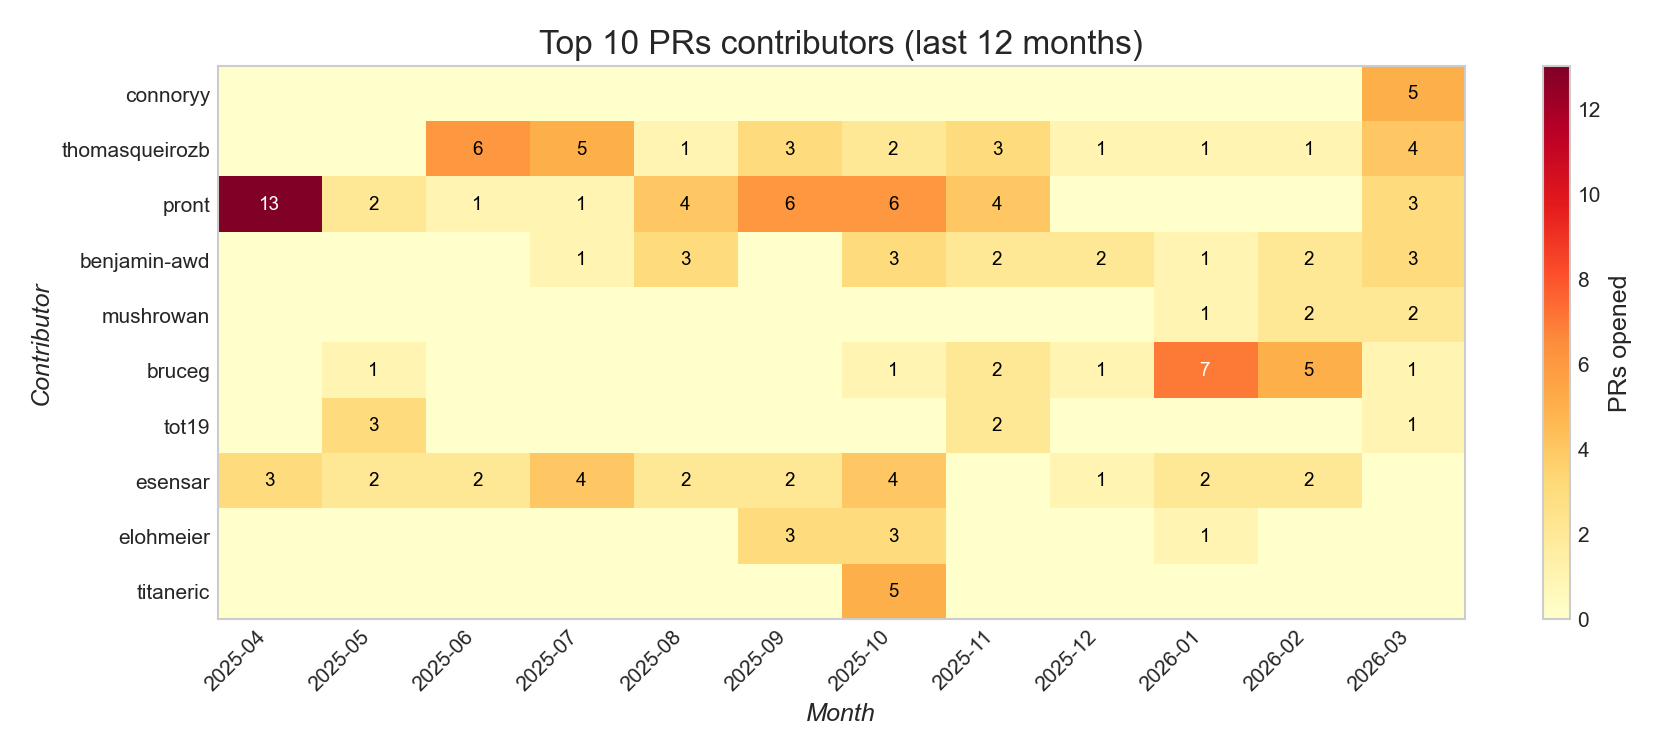
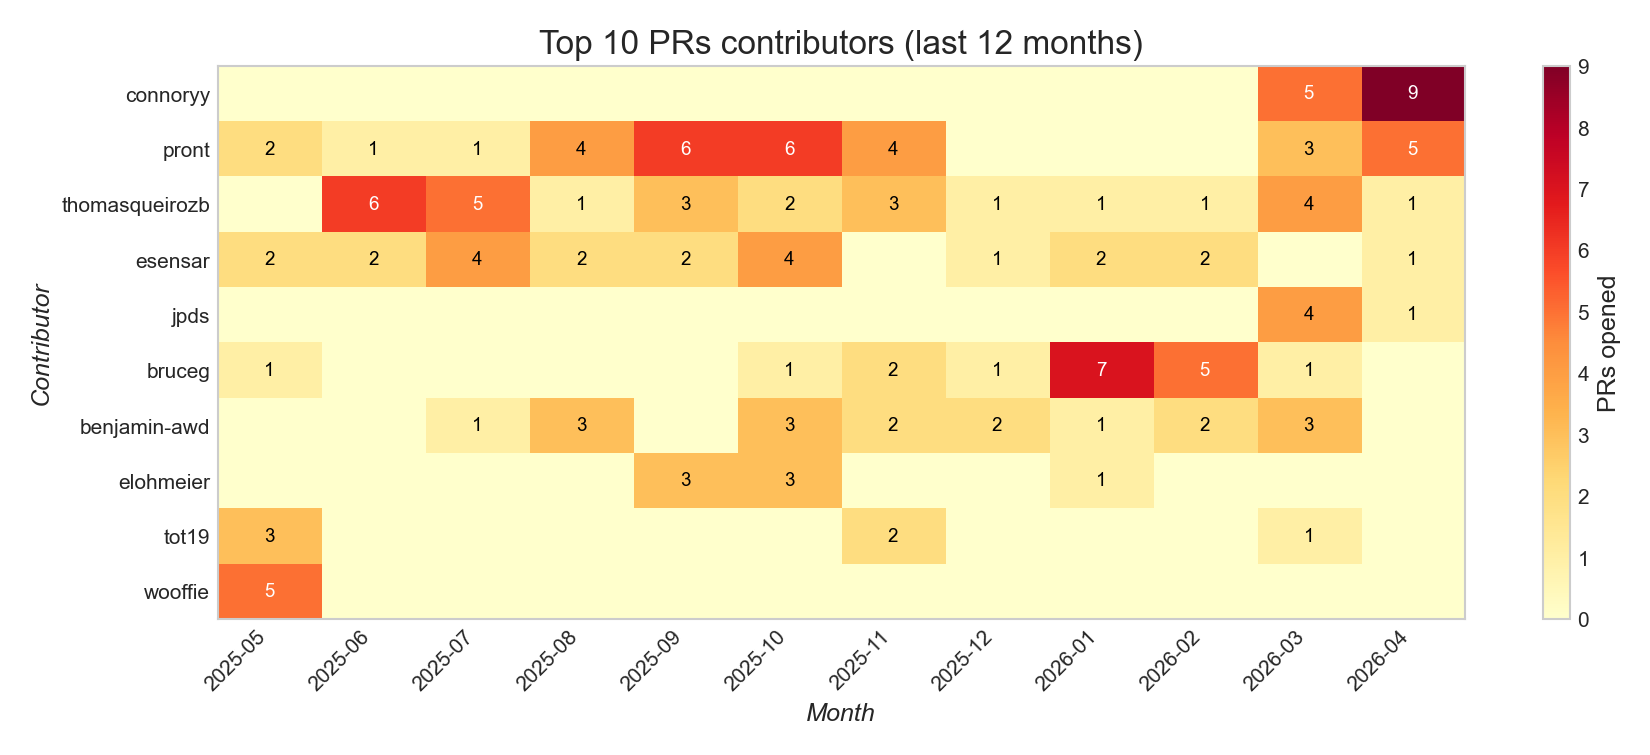
Revert partial-month cutoff to Utc::now()
PR #29 changed the cutoff from Utc::now() to MAX(created_at) under the
theory that data fetched mid-month would otherwise show partial counts.
But in the common case where data is fully fetched through last month
and no PRs have been created yet in the current calendar month,
MAX(created_at) returns last month — so the last complete month gets
silently dropped.

Concrete regression: on 2026-05-24 the vector PR data goes through
2026-04 (a complete month), but MAX(created_at)='2026-04' was excluding
all of April from the contributor heatmap and unique-contributors chart.
Validated against the DB: April actually has 25 unique non-bot
non-draft contributors with the standard exclusions (matches the new
chart exactly).

Reverting to Utc::now() handles both cases correctly: mid-month fetches
still get the current month excluded (since Utc::now() == that month),
and a stale fetch of a complete month is kept.

diff --git a/src/commands/generate_summaries.rs b/src/commands/generate_summaries.rs
@@ -1,24 +1,9 @@
 use crate::config::Config;
 use anyhow::{Context, Result};
 use chrono::Utc;
-use rusqlite::{Connection, OptionalExtension};
+use rusqlite::Connection;
 use std::fs;
 use std::path::Path;
-
-/// Month of the most recent `created_at` in the given table (or discussions).
-/// Used as the cutoff for "exclude partial month" — the latest month in
-/// the data may be partial because the fetch happened mid-month, not
-/// because the calendar month is incomplete.
-fn latest_data_month(conn: &Connection, table: &str) -> Result<String> {
-    let month: Option<String> = conn
-        .query_row(
-            &format!("SELECT substr(MAX(created_at), 1, 7) FROM {table}"),
-            [],
-            |r| r.get(0),
-        )
-        .optional()?;
-    Ok(month.unwrap_or_else(|| Utc::now().format("%Y-%m").to_string()))
-}
 
 pub fn run(db: &str, config: &Config, exclude_labels: Option<&str>) -> Result<()> {
     let conn = Connection::open(db).with_context(|| format!("Failed to open database: {db}"))?;
@@ -131,8 +116,8 @@ fn export_monthly_summary(
     let (wc, params) = build_where(table, exclude_labels, &[]);
     let (wc_closed, params_closed) = build_where(table, exclude_labels, &["closed_at IS NOT NULL"]);
 
-    let current_month = latest_data_month(conn, table)?;
-    eprintln!("Warning: excluding latest (possibly partial) month ({current_month}) from monthly summary for {table}");
+    let current_month = Utc::now().format("%Y-%m").to_string();
+    eprintln!("Warning: excluding current incomplete month ({current_month}) from monthly summary for {table}");
 
     // Get all distinct label names for this table (respecting exclude filter)
     let label_names: Vec<String> = {
@@ -342,7 +327,7 @@ fn export_contributor_monthly(
     exclude_labels: Option<&[String]>,
 ) -> Result<()> {
     let (wc, params) = build_where(table, exclude_labels, &["user_login IS NOT NULL"]);
-    let current_month = latest_data_month(conn, table)?;
+    let current_month = Utc::now().format("%Y-%m").to_string();
     let query = format!(
         "SELECT substr({table}.created_at, 1, 7) AS month,
                 {table}.user_login AS user_login,
@@ -366,7 +351,7 @@ fn export_discussion_monthly_summary(
     out_dir: &Path,
     config: &Config,
 ) -> Result<()> {
-    let current_month = latest_data_month(conn, "discussions")?;
+    let current_month = Utc::now().format("%Y-%m").to_string();
 
     let query = format!(
         "SELECT
